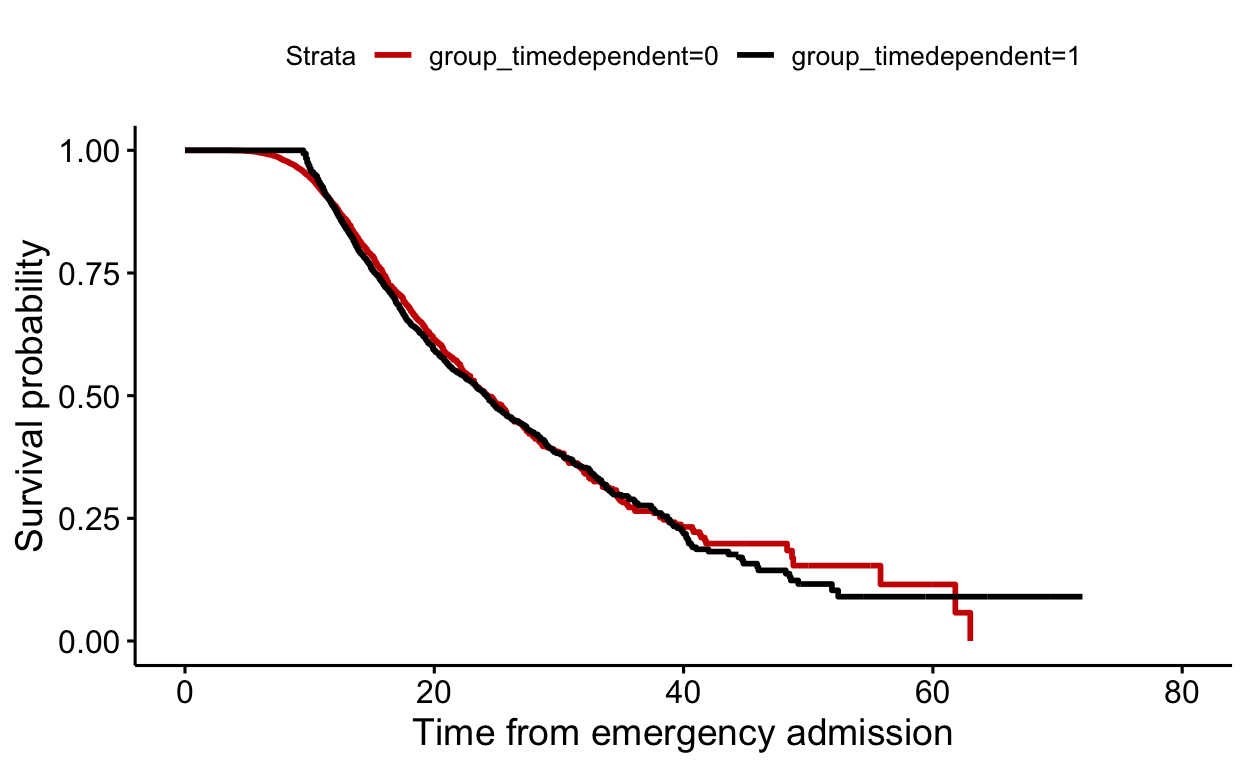
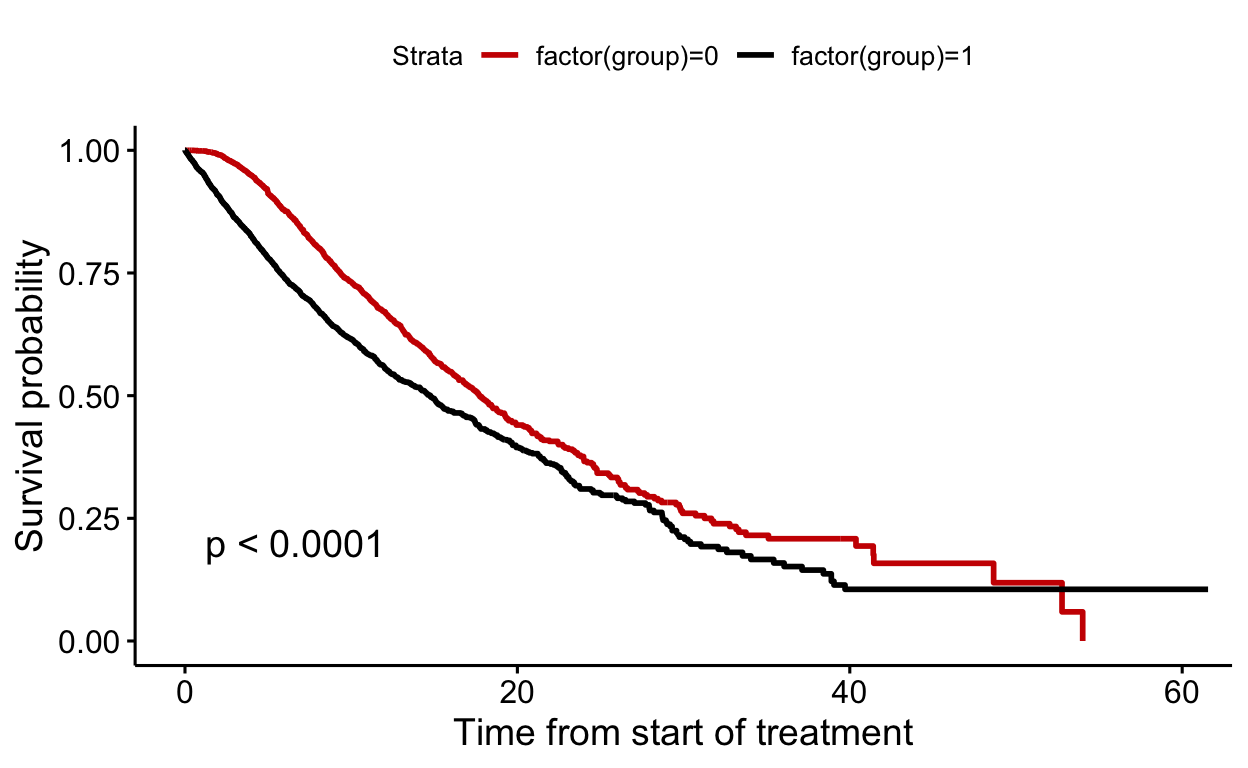
Change

diff --git a/docs/immortal.html b/docs/immortal.html
@@ -2139,13 +2139,7 @@ Topics
 <li><a href="#analysis-strategy">Analysis strategy</a>
 <ul>
 <li><a href="#descriptive-table">Descriptive table</a></li>
-</ul></li>
-<li><a href="#methods-which-introduce-immortal-time-bias">Methods which introduce immortal time bias</a>
-<ul>
 <li><a href="#method-1-fixed-group-assignment-at-time-zero">Method 1: Fixed group assignment at time zero</a></li>
-</ul></li>
-<li><a href="#methods-which-might-account-for-immortal-time-bias">Methods which might account for immortal time bias</a>
-<ul>
 <li><a href="#method-2-randomly-assign-time-zero-for-short-group">Method 2: Randomly assign time zero for short group</a></li>
 <li><a href="#method-3-matched-treatment-duration">Method 3: Matched treatment duration</a></li>
 <li><a href="#method-4-time-zero-at-end-of-treatment">Method 4: Time zero at end of treatment</a></li>
@@ -2203,7 +2197,7 @@ Topics
 <h2 id="knowledge-from-the-crystal-ball">Knowledge from the crystal ball</h2>
 <p>Because we simulated the data, we know that group assignment has no effect on mortality.</p>
 <h1 id="analysis-strategy">Analysis strategy</h1>
-<p><span class="citation" data-cites="zhou"><a href="#ref-zhou" role="doc-biblioref">Zhou et al.</a> (<a href="#ref-zhou" role="doc-biblioref">2005</a>)</span>, <span class="citation" data-cites="karim"><a href="#ref-karim" role="doc-biblioref">Karim et al.</a> (<a href="#ref-karim" role="doc-biblioref">2016</a>)</span>, <span class="citation" data-cites="robins"><a href="#ref-robins" role="doc-biblioref">Hernán and Robins</a> (<a href="#ref-robins" role="doc-biblioref">2016</a>)</span> and <span class="citation" data-cites="hernan"><a href="#ref-hernan" role="doc-biblioref">Hernán et al.</a> (<a href="#ref-hernan" role="doc-biblioref">2016</a>)</span> discuss different analysis strategies for addressing (or not adressing) immortal time bias. IN this vignette we summarise the investigated methods from the above mentioned articles:</p>
+<p><span class="citation" data-cites="zhou"><a href="#ref-zhou" role="doc-biblioref">Zhou et al.</a> (<a href="#ref-zhou" role="doc-biblioref">2005</a>)</span>, <span class="citation" data-cites="karim"><a href="#ref-karim" role="doc-biblioref">Karim et al.</a> (<a href="#ref-karim" role="doc-biblioref">2016</a>)</span>, <span class="citation" data-cites="robins"><a href="#ref-robins" role="doc-biblioref">Hernán and Robins</a> (<a href="#ref-robins" role="doc-biblioref">2016</a>)</span> and <span class="citation" data-cites="hernan"><a href="#ref-hernan" role="doc-biblioref">Hernán et al.</a> (<a href="#ref-hernan" role="doc-biblioref">2016</a>)</span> discuss different analysis strategies for addressing (or not adressing) immortal time bias. In this vignette we summarise the investigated methods from the above mentioned articles:</p>
 <table>
 <thead>
 <tr class="header">
@@ -2704,10 +2698,8 @@ Topics
 <div class="layout-chunk" data-layout="l-body">
 
 </div>
-<h1 id="methods-which-introduce-immortal-time-bias">Methods which introduce immortal time bias</h1>
-<p>This section shows two approaches which do not correct for immortal time bias (<span class="citation" data-cites="zhou"><a href="#ref-zhou" role="doc-biblioref">Zhou et al.</a> (<a href="#ref-zhou" role="doc-biblioref">2005</a>)</span>).</p>
 <h2 id="method-1-fixed-group-assignment-at-time-zero">Method 1: Fixed group assignment at time zero</h2>
-<p>Time zero is time of emergency admission. Treatment is assigned according to whether patients had a short or long time to treatment.</p>
+<p>Time zero was time of emergency admission. Treatment was assigned according to whether patients had a short or long time to treatment. No patients were excluded from the analysis.</p>
 <div class="layout-chunk" data-layout="l-body">
 <div class="sourceCode">
 <pre class="sourceCode r"><code class="sourceCode r"><span class='va'>mod</span> <span class='op'>&lt;-</span> <span class='fu'><a href='https://rdrr.io/pkg/survival/man/survfit.html'>survfit</a></span><span class='op'>(</span><span class='fu'><a href='https://rdrr.io/pkg/survival/man/Surv.html'>Surv</a></span><span class='op'>(</span><span class='va'>fup</span>, <span class='va'>death</span><span class='op'>)</span><span class='op'>~</span><span class='fu'><a href='https://rdrr.io/r/base/factor.html'>factor</a></span><span class='op'>(</span><span class='va'>group</span><span class='op'>)</span>, data<span class='op'>=</span><span class='va'>data</span><span class='op'>)</span>
@@ -2716,9 +2708,8 @@ Topics
 </div>
 <p><img src="immortal_files/figure-html5/unnamed-chunk-6-1.png" width="624" /></p>
 </div>
-<h1 id="methods-which-might-account-for-immortal-time-bias">Methods which might account for immortal time bias</h1>
 <h2 id="method-2-randomly-assign-time-zero-for-short-group">Method 2: Randomly assign time zero for short group</h2>
-<p>Treatment is assigned according to whether patients had a short or long time to treatment. Time zero is set at start of treatment, but time to treatment for the short group is randomly replaced by a time to treatment from the time to treatment range of the long group. Individuals from the short group who die before time zero are excluded.</p>
+<p>Treatment was assigned according to whether patients had a short or long time to treatment. Time zero was set at start of treatment, but time to treatment for the short group was randomly replaced by a time to treatment from the time to treatment range of the long group.</p>
 <div class="layout-chunk" data-layout="l-body">
 <div class="sourceCode">
 <pre class="sourceCode r"><code class="sourceCode r"><span class='va'>data_method2</span> <span class='op'>&lt;-</span> <span class='va'>data</span>
@@ -2727,14 +2718,21 @@ Topics
 <span class='va'>data_method2</span><span class='op'>$</span><span class='va'>time_to_treatment_new</span><span class='op'>[</span><span class='va'>data_method2</span><span class='op'>$</span><span class='va'>group</span><span class='op'>==</span><span class='fl'>0</span><span class='op'>]</span> <span class='op'>&lt;-</span> 
   <span class='fu'><a href='https://rdrr.io/r/stats/Uniform.html'>runif</a></span><span class='op'>(</span><span class='fu'><a href='https://rdrr.io/r/base/length.html'>length</a></span><span class='op'>(</span><span class='va'>data_method2</span><span class='op'>$</span><span class='va'>time_to_treatment_new</span><span class='op'>[</span><span class='va'>data_method2</span><span class='op'>$</span><span class='va'>group</span><span class='op'>==</span><span class='fl'>0</span><span class='op'>]</span><span class='op'>)</span>, <span class='fu'><a href='https://rdrr.io/r/stats/median.html'>median</a></span><span class='op'>(</span><span class='va'>time_to_treatment</span><span class='op'>)</span>, <span class='fu'><a href='https://rdrr.io/r/base/Extremes.html'>max</a></span><span class='op'>(</span><span class='va'>time_to_treatment</span><span class='op'>)</span><span class='op'>)</span>
 
-<span class='co'># Exclusion of patients</span>
+<span class='co'># Exclusion of patients:</span>
+<span class='co'># If original follow-up time of patients &lt; random treatment time</span>
 <span class='va'>data_method2</span><span class='op'>$</span><span class='va'>exclude</span> <span class='op'>&lt;-</span> <span class='fl'>0</span>
 <span class='va'>data_method2</span><span class='op'>$</span><span class='va'>exclude</span><span class='op'>[</span><span class='va'>data_method2</span><span class='op'>$</span><span class='va'>group</span><span class='op'>==</span><span class='fl'>0</span> <span class='op'>&amp;</span> <span class='va'>data_method2</span><span class='op'>$</span><span class='va'>death</span><span class='op'>==</span><span class='fl'>1</span><span class='op'>]</span> <span class='op'>&lt;-</span> 
   <span class='fu'><a href='https://rdrr.io/r/base/ifelse.html'>ifelse</a></span><span class='op'>(</span><span class='va'>data_method2</span><span class='op'>$</span><span class='va'>fup</span><span class='op'>[</span><span class='va'>data_method2</span><span class='op'>$</span><span class='va'>group</span><span class='op'>==</span><span class='fl'>0</span> <span class='op'>&amp;</span> <span class='va'>data_method2</span><span class='op'>$</span><span class='va'>death</span><span class='op'>==</span><span class='fl'>1</span><span class='op'>]</span><span class='op'>&lt;</span><span class='va'>data_method2</span><span class='op'>$</span><span class='va'>time_to_treatment_new</span><span class='op'>[</span><span class='va'>data_method2</span><span class='op'>$</span><span class='va'>group</span><span class='op'>==</span><span class='fl'>0</span> <span class='op'>&amp;</span> <span class='va'>data_method2</span><span class='op'>$</span><span class='va'>death</span><span class='op'>==</span><span class='fl'>1</span><span class='op'>]</span>, <span class='fl'>1</span>, <span class='fl'>0</span><span class='op'>)</span>
-
-<span class='va'>data_method2</span> <span class='op'>&lt;-</span> <span class='va'>data_method2</span> <span class='op'><a href='https://magrittr.tidyverse.org/reference/pipe.html'>%&gt;%</a></span> <span class='fu'><a href='https://dplyr.tidyverse.org/reference/filter.html'>filter</a></span><span class='op'>(</span><span class='va'>exclude</span><span class='op'>==</span><span class='fl'>0</span><span class='op'>)</span>
+</code></pre>
+</div>
+</div>
+<p>829 (8.3) individuals from the short group who died before time zero were excluded.</p>
+<div class="layout-chunk" data-layout="l-body">
+<div class="sourceCode">
+<pre class="sourceCode r"><code class="sourceCode r"><span class='va'>data_method2</span> <span class='op'>&lt;-</span> <span class='va'>data_method2</span> <span class='op'><a href='https://magrittr.tidyverse.org/reference/pipe.html'>%&gt;%</a></span> <span class='fu'><a href='https://dplyr.tidyverse.org/reference/filter.html'>filter</a></span><span class='op'>(</span><span class='va'>exclude</span><span class='op'>==</span><span class='fl'>0</span><span class='op'>)</span>
 
 <span class='co'># Time zero: Start of treatment</span>
+<span class='co'># Difference between new random treatment time - original treatment time (=zero for long group)</span>
 <span class='va'>data_method2</span><span class='op'>$</span><span class='va'>fup</span> <span class='op'>&lt;-</span> <span class='fu'><a href='https://rdrr.io/r/base/Extremes.html'>pmin</a></span><span class='op'>(</span><span class='va'>data_method2</span><span class='op'>$</span><span class='va'>time_to_treatment_new</span><span class='op'>-</span><span class='va'>data_method2</span><span class='op'>$</span><span class='va'>time_to_treatment</span><span class='op'>+</span><span class='va'>data_method2</span><span class='op'>$</span><span class='va'>time_to_death</span>, <span class='va'>data_method2</span><span class='op'>$</span><span class='va'>time_to_treatment_new</span><span class='op'>-</span><span class='va'>data_method2</span><span class='op'>$</span><span class='va'>time_to_treatment</span><span class='op'>+</span><span class='va'>data_method2</span><span class='op'>$</span><span class='va'>censored</span><span class='op'>)</span>
 <span class='co'># Replace death indicator</span>
 <span class='va'>data_method2</span><span class='op'>$</span><span class='va'>death</span> <span class='op'>&lt;-</span> <span class='fu'><a href='https://rdrr.io/r/base/ifelse.html'>ifelse</a></span><span class='op'>(</span><span class='va'>data_method2</span><span class='op'>$</span><span class='va'>time_to_treatment_new</span><span class='op'>-</span><span class='va'>data_method2</span><span class='op'>$</span><span class='va'>time_to_treatment</span><span class='op'>+</span><span class='va'>data_method2</span><span class='op'>$</span><span class='va'>time_to_death</span><span class='op'>&lt;=</span><span class='va'>data_method2</span><span class='op'>$</span><span class='va'>time_to_treatment_new</span><span class='op'>-</span><span class='va'>data_method2</span><span class='op'>$</span><span class='va'>time_to_treatment</span><span class='op'>+</span><span class='va'>data_method2</span><span class='op'>$</span><span class='va'>censored</span>, <span class='fl'>1</span>, <span class='fl'>0</span><span class='op'>)</span>
@@ -2743,55 +2741,67 @@ Topics
 <span class='fu'><a href='https://rdrr.io/pkg/survminer/man/ggsurvplot.html'>ggsurvplot</a></span><span class='op'>(</span><span class='va'>mod</span>, data<span class='op'>=</span><span class='va'>data_method2</span>, palette<span class='op'>=</span><span class='fu'><a href='https://rdrr.io/r/base/c.html'>c</a></span><span class='op'>(</span><span class='st'>"#CC0000"</span>, <span class='st'>"black"</span><span class='op'>)</span>, censor<span class='op'>=</span><span class='cn'>F</span>, pval<span class='op'>=</span><span class='cn'>T</span>, xlab<span class='op'>=</span><span class='st'>"Time from start of treatment"</span><span class='op'>)</span>
 </code></pre>
 </div>
-<p><img src="immortal_files/figure-html5/unnamed-chunk-7-1.png" width="624" /></p>
-</div>
-<h2 id="method-3-matched-treatment-duration">Method 3: Matched treatment duration</h2>
-<p>Treatment is assigned according to whether patients had a short or long time to treatment. Time zero is set at start of treatment, but time to treatment for the short group is randomly replaced by a time to treatment from the time to treatment range of the long group. Individuals from the short group who die before time zero are excluded. This methods corrects for time to treatment imbalances (compared to method 2).</p>
-<div class="layout-chunk" data-layout="l-body">
-<div class="sourceCode">
-<pre class="sourceCode r"><code class="sourceCode r"><span class='va'>data_method4</span> <span class='op'>&lt;-</span> <span class='va'>data</span>
-<span class='co'># Get time to treatment from long group</span>
-<span class='va'>sample_time</span> <span class='op'>&lt;-</span> <span class='va'>data_method4</span><span class='op'>$</span><span class='va'>time_to_treatment</span><span class='op'>[</span><span class='va'>data_method4</span><span class='op'>$</span><span class='va'>group</span><span class='op'>==</span><span class='fl'>1</span><span class='op'>]</span>
-<span class='co'># New time to treament for short group</span>
-<span class='va'>data_method4</span><span class='op'>$</span><span class='va'>time_to_treatment_new</span> <span class='op'>&lt;-</span> <span class='va'>data_method4</span><span class='op'>$</span><span class='va'>time_to_treatment</span>
-<span class='va'>data_method4</span><span class='op'>$</span><span class='va'>time_to_treatment_new</span><span class='op'>[</span><span class='va'>data_method4</span><span class='op'>$</span><span class='va'>group</span><span class='op'>==</span><span class='fl'>0</span><span class='op'>]</span> <span class='op'>&lt;-</span> <span class='fu'><a href='https://rdrr.io/r/base/sample.html'>sample</a></span><span class='op'>(</span><span class='va'>sample_time</span>, <span class='fu'><a href='https://rdrr.io/r/base/length.html'>length</a></span><span class='op'>(</span><span class='va'>data_method4</span><span class='op'>$</span><span class='va'>time_to_treatment</span><span class='op'>[</span><span class='va'>data_method4</span><span class='op'>$</span><span class='va'>group</span><span class='op'>==</span><span class='fl'>0</span><span class='op'>]</span><span class='op'>)</span><span class='op'>)</span>
-
-<span class='co'># Exclusion of patients</span>
-<span class='va'>data_method4</span><span class='op'>$</span><span class='va'>exclude</span> <span class='op'>&lt;-</span> <span class='fl'>0</span>
-<span class='va'>data_method4</span><span class='op'>$</span><span class='va'>exclude</span><span class='op'>[</span><span class='va'>data_method4</span><span class='op'>$</span><span class='va'>group</span><span class='op'>==</span><span class='fl'>0</span> <span class='op'>&amp;</span> <span class='va'>data_method4</span><span class='op'>$</span><span class='va'>death</span><span class='op'>==</span><span class='fl'>1</span><span class='op'>]</span> <span class='op'>&lt;-</span> <span class='fu'><a href='https://rdrr.io/r/base/ifelse.html'>ifelse</a></span><span class='op'>(</span><span class='va'>data_method4</span><span class='op'>$</span><span class='va'>fup</span><span class='op'>[</span><span class='va'>data_method4</span><span class='op'>$</span><span class='va'>group</span><span class='op'>==</span><span class='fl'>0</span> <span class='op'>&amp;</span> <span class='va'>data_method4</span><span class='op'>$</span><span class='va'>death</span><span class='op'>==</span><span class='fl'>1</span><span class='op'>]</span><span class='op'>&lt;</span><span class='va'>data_method4</span><span class='op'>$</span><span class='va'>time_to_treatment_new</span><span class='op'>[</span><span class='va'>data_method4</span><span class='op'>$</span><span class='va'>group</span><span class='op'>==</span><span class='fl'>0</span> <span class='op'>&amp;</span> <span class='va'>data_method4</span><span class='op'>$</span><span class='va'>death</span><span class='op'>==</span><span class='fl'>1</span><span class='op'>]</span>, <span class='fl'>1</span>, <span class='fl'>0</span><span class='op'>)</span>
-
-<span class='va'>data_method4</span> <span class='op'>&lt;-</span> <span class='va'>data_method4</span> <span class='op'><a href='https://magrittr.tidyverse.org/reference/pipe.html'>%&gt;%</a></span> <span class='fu'><a href='https://dplyr.tidyverse.org/reference/filter.html'>filter</a></span><span class='op'>(</span><span class='va'>exclude</span><span class='op'>==</span><span class='fl'>0</span><span class='op'>)</span>
-
-<span class='co'># Time zero: Start of treatment</span>
-<span class='va'>data_method4</span><span class='op'>$</span><span class='va'>fup</span> <span class='op'>&lt;-</span> <span class='fu'><a href='https://rdrr.io/r/base/Extremes.html'>pmin</a></span><span class='op'>(</span><span class='va'>data_method4</span><span class='op'>$</span><span class='va'>time_to_treatment_new</span><span class='op'>-</span><span class='va'>data_method4</span><span class='op'>$</span><span class='va'>time_to_treatment</span><span class='op'>+</span><span class='va'>data_method4</span><span class='op'>$</span><span class='va'>time_to_death</span>, <span class='va'>data_method4</span><span class='op'>$</span><span class='va'>time_to_treatment_new</span><span class='op'>-</span><span class='va'>data_method4</span><span class='op'>$</span><span class='va'>time_to_treatment</span><span class='op'>+</span><span class='va'>data_method4</span><span class='op'>$</span><span class='va'>censored</span><span class='op'>)</span>
-<span class='va'>data_method4</span><span class='op'>$</span><span class='va'>fup</span> <span class='op'>&lt;-</span> <span class='fu'><a href='https://rdrr.io/r/base/Extremes.html'>pmin</a></span><span class='op'>(</span><span class='va'>data_method4</span><span class='op'>$</span><span class='va'>time_to_death</span>, <span class='va'>data_method4</span><span class='op'>$</span><span class='va'>censored</span><span class='op'>)</span>
-<span class='co'># Replace death indicator</span>
-<span class='va'>data_method4</span><span class='op'>$</span><span class='va'>death</span> <span class='op'>&lt;-</span> <span class='fu'><a href='https://rdrr.io/r/base/ifelse.html'>ifelse</a></span><span class='op'>(</span><span class='va'>data_method4</span><span class='op'>$</span><span class='va'>time_to_treatment_new</span><span class='op'>-</span><span class='va'>data_method4</span><span class='op'>$</span><span class='va'>time_to_treatment</span><span class='op'>+</span><span class='va'>data_method4</span><span class='op'>$</span><span class='va'>time_to_death</span><span class='op'>&lt;=</span><span class='va'>data_method4</span><span class='op'>$</span><span class='va'>time_to_treatment_new</span><span class='op'>-</span><span class='va'>data_method4</span><span class='op'>$</span><span class='va'>time_to_treatment</span><span class='op'>+</span><span class='va'>data_method4</span><span class='op'>$</span><span class='va'>censored</span>, <span class='fl'>1</span>, <span class='fl'>0</span><span class='op'>)</span>
-
-<span class='va'>mod</span> <span class='op'>&lt;-</span> <span class='fu'><a href='https://rdrr.io/pkg/survival/man/survfit.html'>survfit</a></span><span class='op'>(</span><span class='fu'><a href='https://rdrr.io/pkg/survival/man/Surv.html'>Surv</a></span><span class='op'>(</span><span class='va'>fup</span>, <span class='va'>death</span><span class='op'>)</span><span class='op'>~</span><span class='fu'><a href='https://rdrr.io/r/base/factor.html'>factor</a></span><span class='op'>(</span><span class='va'>group</span><span class='op'>)</span>, data<span class='op'>=</span><span class='va'>data_method4</span><span class='op'>)</span>
-<span class='fu'><a href='https://rdrr.io/pkg/survminer/man/ggsurvplot.html'>ggsurvplot</a></span><span class='op'>(</span><span class='va'>mod</span>, data<span class='op'>=</span><span class='va'>data_method4</span>, palette<span class='op'>=</span><span class='fu'><a href='https://rdrr.io/r/base/c.html'>c</a></span><span class='op'>(</span><span class='st'>"#CC0000"</span>, <span class='st'>"black"</span><span class='op'>)</span>, censor<span class='op'>=</span><span class='cn'>F</span>, pval<span class='op'>=</span><span class='cn'>T</span>, xlab<span class='op'>=</span><span class='st'>"Time from start of treatment"</span><span class='op'>)</span>
-</code></pre>
-</div>
 <p><img src="immortal_files/figure-html5/unnamed-chunk-8-1.png" width="624" /></p>
 </div>
-<h2 id="method-4-time-zero-at-end-of-treatment">Method 4: Time zero at end of treatment</h2>
-<p>Treatment is assigned according to whether patients had a short or long time to treatment. Individuals are followed-up from the end of treatment duration.</p>
+<h2 id="method-3-matched-treatment-duration">Method 3: Matched treatment duration</h2>
+<p>Treatment was assigned according to whether patients had a short or long time to treatment. Time zero was set at start of treatment, but time to treatment for the short group was randomly replaced by a time to treatment from the time to treatment range of the long group. This methods corrects for time to treatment imbalances between the two groups (in contrast to method 2).</p>
 <div class="layout-chunk" data-layout="l-body">
 <div class="sourceCode">
 <pre class="sourceCode r"><code class="sourceCode r"><span class='va'>data_method3</span> <span class='op'>&lt;-</span> <span class='va'>data</span>
-<span class='va'>data_method3</span><span class='op'>$</span><span class='va'>excluded</span> <span class='op'>&lt;-</span> <span class='fu'><a href='https://rdrr.io/r/base/ifelse.html'>ifelse</a></span><span class='op'>(</span><span class='va'>data_method3</span><span class='op'>$</span><span class='va'>fup</span><span class='op'>&lt;</span><span class='fu'><a href='https://rdrr.io/r/base/Extremes.html'>max</a></span><span class='op'>(</span><span class='va'>time_to_treatment</span><span class='op'>)</span>, <span class='fl'>1</span>, <span class='fl'>0</span><span class='op'>)</span>
-<span class='va'>data_method3</span> <span class='op'>&lt;-</span> <span class='va'>data_method3</span> <span class='op'><a href='https://magrittr.tidyverse.org/reference/pipe.html'>%&gt;%</a></span> <span class='fu'><a href='https://dplyr.tidyverse.org/reference/filter.html'>filter</a></span><span class='op'>(</span><span class='va'>excluded</span><span class='op'>==</span><span class='fl'>0</span><span class='op'>)</span>
+<span class='co'># Get time to treatment from long group</span>
+<span class='va'>sample_time</span> <span class='op'>&lt;-</span> <span class='va'>data_method3</span><span class='op'>$</span><span class='va'>time_to_treatment</span><span class='op'>[</span><span class='va'>data_method3</span><span class='op'>$</span><span class='va'>group</span><span class='op'>==</span><span class='fl'>1</span><span class='op'>]</span>
+<span class='co'># New time to treatment for short group: Matching from long group</span>
+<span class='va'>data_method3</span><span class='op'>$</span><span class='va'>time_to_treatment_new</span> <span class='op'>&lt;-</span> <span class='va'>data_method3</span><span class='op'>$</span><span class='va'>time_to_treatment</span>
+<span class='va'>data_method3</span><span class='op'>$</span><span class='va'>time_to_treatment_new</span><span class='op'>[</span><span class='va'>data_method3</span><span class='op'>$</span><span class='va'>group</span><span class='op'>==</span><span class='fl'>0</span><span class='op'>]</span> <span class='op'>&lt;-</span> <span class='fu'><a href='https://rdrr.io/r/base/sample.html'>sample</a></span><span class='op'>(</span><span class='va'>sample_time</span>, <span class='fu'><a href='https://rdrr.io/r/base/length.html'>length</a></span><span class='op'>(</span><span class='va'>data_method3</span><span class='op'>$</span><span class='va'>time_to_treatment</span><span class='op'>[</span><span class='va'>data_method3</span><span class='op'>$</span><span class='va'>group</span><span class='op'>==</span><span class='fl'>0</span><span class='op'>]</span><span class='op'>)</span><span class='op'>)</span>
 
-<span class='va'>data_method3</span><span class='op'>$</span><span class='va'>fup</span> <span class='op'>&lt;-</span> <span class='va'>data_method3</span><span class='op'>$</span><span class='va'>fup</span><span class='op'>-</span><span class='fu'><a href='https://rdrr.io/r/base/Extremes.html'>max</a></span><span class='op'>(</span><span class='va'>time_to_treatment</span><span class='op'>)</span>
-
-<span class='va'>mod</span> <span class='op'>&lt;-</span> <span class='fu'><a href='https://rdrr.io/pkg/survival/man/survfit.html'>survfit</a></span><span class='op'>(</span><span class='fu'><a href='https://rdrr.io/pkg/survival/man/Surv.html'>Surv</a></span><span class='op'>(</span><span class='va'>fup</span>, <span class='va'>death</span><span class='op'>)</span><span class='op'>~</span><span class='fu'><a href='https://rdrr.io/r/base/factor.html'>factor</a></span><span class='op'>(</span><span class='va'>group</span><span class='op'>)</span>, data<span class='op'>=</span><span class='va'>data_method3</span><span class='op'>)</span>
-<span class='fu'><a href='https://rdrr.io/pkg/survminer/man/ggsurvplot.html'>ggsurvplot</a></span><span class='op'>(</span><span class='va'>mod</span>, data<span class='op'>=</span><span class='va'>data_method3</span>, palette<span class='op'>=</span><span class='fu'><a href='https://rdrr.io/r/base/c.html'>c</a></span><span class='op'>(</span><span class='st'>"#CC0000"</span>, <span class='st'>"black"</span><span class='op'>)</span>, censor<span class='op'>=</span><span class='cn'>F</span>, pval<span class='op'>=</span><span class='cn'>T</span>, xlab<span class='op'>=</span><span class='st'>"Time from end of treatment duration"</span><span class='op'>)</span>
+<span class='co'># Exclusion of patients</span>
+<span class='va'>data_method3</span><span class='op'>$</span><span class='va'>exclude</span> <span class='op'>&lt;-</span> <span class='fl'>0</span>
+<span class='va'>data_method3</span><span class='op'>$</span><span class='va'>exclude</span><span class='op'>[</span><span class='va'>data_method3</span><span class='op'>$</span><span class='va'>group</span><span class='op'>==</span><span class='fl'>0</span> <span class='op'>&amp;</span> <span class='va'>data_method3</span><span class='op'>$</span><span class='va'>death</span><span class='op'>==</span><span class='fl'>1</span><span class='op'>]</span> <span class='op'>&lt;-</span> <span class='fu'><a href='https://rdrr.io/r/base/ifelse.html'>ifelse</a></span><span class='op'>(</span><span class='va'>data_method3</span><span class='op'>$</span><span class='va'>fup</span><span class='op'>[</span><span class='va'>data_method3</span><span class='op'>$</span><span class='va'>group</span><span class='op'>==</span><span class='fl'>0</span> <span class='op'>&amp;</span> <span class='va'>data_method3</span><span class='op'>$</span><span class='va'>death</span><span class='op'>==</span><span class='fl'>1</span><span class='op'>]</span><span class='op'>&lt;</span><span class='va'>data_method3</span><span class='op'>$</span><span class='va'>time_to_treatment_new</span><span class='op'>[</span><span class='va'>data_method3</span><span class='op'>$</span><span class='va'>group</span><span class='op'>==</span><span class='fl'>0</span> <span class='op'>&amp;</span> <span class='va'>data_method3</span><span class='op'>$</span><span class='va'>death</span><span class='op'>==</span><span class='fl'>1</span><span class='op'>]</span>, <span class='fl'>1</span>, <span class='fl'>0</span><span class='op'>)</span>
 </code></pre>
 </div>
-<p><img src="immortal_files/figure-html5/unnamed-chunk-9-1.png" width="624" /></p>
+</div>
+<p>634 (6.3) individuals from the short group who die before time zero were excluded.</p>
+<div class="layout-chunk" data-layout="l-body">
+<div class="sourceCode">
+<pre class="sourceCode r"><code class="sourceCode r"><span class='va'>data_method3</span> <span class='op'>&lt;-</span> <span class='va'>data_method3</span> <span class='op'><a href='https://magrittr.tidyverse.org/reference/pipe.html'>%&gt;%</a></span> <span class='fu'><a href='https://dplyr.tidyverse.org/reference/filter.html'>filter</a></span><span class='op'>(</span><span class='va'>exclude</span><span class='op'>==</span><span class='fl'>0</span><span class='op'>)</span>
+
+<span class='co'># Time zero: Start of treatment</span>
+<span class='co'># Difference between new matched treatment time - original treatment time (=zero for long group)</span>
+<span class='va'>data_method3</span><span class='op'>$</span><span class='va'>fup</span> <span class='op'>&lt;-</span> <span class='fu'><a href='https://rdrr.io/r/base/Extremes.html'>pmin</a></span><span class='op'>(</span><span class='va'>data_method3</span><span class='op'>$</span><span class='va'>time_to_treatment_new</span><span class='op'>-</span><span class='va'>data_method3</span><span class='op'>$</span><span class='va'>time_to_treatment</span><span class='op'>+</span><span class='va'>data_method3</span><span class='op'>$</span><span class='va'>time_to_death</span>, <span class='va'>data_method3</span><span class='op'>$</span><span class='va'>time_to_treatment_new</span><span class='op'>-</span><span class='va'>data_method3</span><span class='op'>$</span><span class='va'>time_to_treatment</span><span class='op'>+</span><span class='va'>data_method3</span><span class='op'>$</span><span class='va'>censored</span><span class='op'>)</span>
+<span class='va'>data_method3</span><span class='op'>$</span><span class='va'>fup</span> <span class='op'>&lt;-</span> <span class='fu'><a href='https://rdrr.io/r/base/Extremes.html'>pmin</a></span><span class='op'>(</span><span class='va'>data_method3</span><span class='op'>$</span><span class='va'>time_to_death</span>, <span class='va'>data_method3</span><span class='op'>$</span><span class='va'>censored</span><span class='op'>)</span>
+<span class='co'># Replace death indicator</span>
+<span class='va'>data_method3</span><span class='op'>$</span><span class='va'>death</span> <span class='op'>&lt;-</span> <span class='fu'><a href='https://rdrr.io/r/base/ifelse.html'>ifelse</a></span><span class='op'>(</span><span class='va'>data_method3</span><span class='op'>$</span><span class='va'>time_to_treatment_new</span><span class='op'>-</span><span class='va'>data_method3</span><span class='op'>$</span><span class='va'>time_to_treatment</span><span class='op'>+</span><span class='va'>data_method3</span><span class='op'>$</span><span class='va'>time_to_death</span><span class='op'>&lt;=</span><span class='va'>data_method3</span><span class='op'>$</span><span class='va'>time_to_treatment_new</span><span class='op'>-</span><span class='va'>data_method3</span><span class='op'>$</span><span class='va'>time_to_treatment</span><span class='op'>+</span><span class='va'>data_method3</span><span class='op'>$</span><span class='va'>censored</span>, <span class='fl'>1</span>, <span class='fl'>0</span><span class='op'>)</span>
+
+<span class='va'>mod</span> <span class='op'>&lt;-</span> <span class='fu'><a href='https://rdrr.io/pkg/survival/man/survfit.html'>survfit</a></span><span class='op'>(</span><span class='fu'><a href='https://rdrr.io/pkg/survival/man/Surv.html'>Surv</a></span><span class='op'>(</span><span class='va'>fup</span>, <span class='va'>death</span><span class='op'>)</span><span class='op'>~</span><span class='fu'><a href='https://rdrr.io/r/base/factor.html'>factor</a></span><span class='op'>(</span><span class='va'>group</span><span class='op'>)</span>, data<span class='op'>=</span><span class='va'>data_method3</span><span class='op'>)</span>
+<span class='fu'><a href='https://rdrr.io/pkg/survminer/man/ggsurvplot.html'>ggsurvplot</a></span><span class='op'>(</span><span class='va'>mod</span>, data<span class='op'>=</span><span class='va'>data_method3</span>, palette<span class='op'>=</span><span class='fu'><a href='https://rdrr.io/r/base/c.html'>c</a></span><span class='op'>(</span><span class='st'>"#CC0000"</span>, <span class='st'>"black"</span><span class='op'>)</span>, censor<span class='op'>=</span><span class='cn'>F</span>, pval<span class='op'>=</span><span class='cn'>T</span>, xlab<span class='op'>=</span><span class='st'>"Time from start of treatment"</span><span class='op'>)</span>
+</code></pre>
+</div>
+<p><img src="immortal_files/figure-html5/unnamed-chunk-10-1.png" width="624" /></p>
+</div>
+<h2 id="method-4-time-zero-at-end-of-treatment">Method 4: Time zero at end of treatment</h2>
+<p>Treatment was assigned according to whether patients had a short or long time to treatment. Individuals were followed-up from the end of treatment duration.</p>
+<div class="layout-chunk" data-layout="l-body">
+<div class="sourceCode">
+<pre class="sourceCode r"><code class="sourceCode r"><span class='va'>data_method4</span> <span class='op'>&lt;-</span> <span class='va'>data</span>
+<span class='va'>data_method4</span><span class='op'>$</span><span class='va'>exclude</span> <span class='op'>&lt;-</span> <span class='fu'><a href='https://rdrr.io/r/base/ifelse.html'>ifelse</a></span><span class='op'>(</span><span class='va'>data_method4</span><span class='op'>$</span><span class='va'>fup</span><span class='op'>&lt;</span><span class='fu'><a href='https://rdrr.io/r/base/Extremes.html'>max</a></span><span class='op'>(</span><span class='va'>time_to_treatment</span><span class='op'>)</span>, <span class='fl'>1</span>, <span class='fl'>0</span><span class='op'>)</span>
+</code></pre>
+</div>
+</div>
+<p>5922 (59.2) individuals from both groups who died before time zero were excluded.</p>
+<div class="layout-chunk" data-layout="l-body">
+<div class="sourceCode">
+<pre class="sourceCode r"><code class="sourceCode r"><span class='va'>data_method4</span> <span class='op'>&lt;-</span> <span class='va'>data_method4</span> <span class='op'><a href='https://magrittr.tidyverse.org/reference/pipe.html'>%&gt;%</a></span> <span class='fu'><a href='https://dplyr.tidyverse.org/reference/filter.html'>filter</a></span><span class='op'>(</span><span class='va'>exclude</span><span class='op'>==</span><span class='fl'>0</span><span class='op'>)</span>
+<span class='co'># Shift time to follow-up</span>
+<span class='va'>data_method4</span><span class='op'>$</span><span class='va'>fup</span> <span class='op'>&lt;-</span> <span class='va'>data_method4</span><span class='op'>$</span><span class='va'>fup</span><span class='op'>-</span><span class='fu'><a href='https://rdrr.io/r/base/Extremes.html'>max</a></span><span class='op'>(</span><span class='va'>time_to_treatment</span><span class='op'>)</span>
+
+<span class='va'>mod</span> <span class='op'>&lt;-</span> <span class='fu'><a href='https://rdrr.io/pkg/survival/man/survfit.html'>survfit</a></span><span class='op'>(</span><span class='fu'><a href='https://rdrr.io/pkg/survival/man/Surv.html'>Surv</a></span><span class='op'>(</span><span class='va'>fup</span>, <span class='va'>death</span><span class='op'>)</span><span class='op'>~</span><span class='fu'><a href='https://rdrr.io/r/base/factor.html'>factor</a></span><span class='op'>(</span><span class='va'>group</span><span class='op'>)</span>, data<span class='op'>=</span><span class='va'>data_method4</span><span class='op'>)</span>
+<span class='fu'><a href='https://rdrr.io/pkg/survminer/man/ggsurvplot.html'>ggsurvplot</a></span><span class='op'>(</span><span class='va'>mod</span>, data<span class='op'>=</span><span class='va'>data_method4</span>, palette<span class='op'>=</span><span class='fu'><a href='https://rdrr.io/r/base/c.html'>c</a></span><span class='op'>(</span><span class='st'>"#CC0000"</span>, <span class='st'>"black"</span><span class='op'>)</span>, censor<span class='op'>=</span><span class='cn'>F</span>, pval<span class='op'>=</span><span class='cn'>T</span>, xlab<span class='op'>=</span><span class='st'>"Time from end of treatment duration"</span><span class='op'>)</span>
+</code></pre>
+</div>
+<p><img src="immortal_files/figure-html5/unnamed-chunk-12-1.png" width="624" /></p>
 </div>
 <h2 id="method-5-time-dependent-treatment">Method 5: Time-dependent treatment</h2>
-<p>Treatment assignment is 0 (“short”) as long as a patient has a time to treatment smaller than the median time to treatment, and 1 (“long”) otherwise.</p>
+<p>Treatment assignment was 0 (“short”) as long as a patient had a time to treatment smaller than the median time to treatment, and 1 (“long”) otherwise. No individuals were excluded.</p>
 <div class="layout-chunk" data-layout="l-body">
 <div class="sourceCode">
 <pre class="sourceCode r"><code class="sourceCode r"><span class='kw'><a href='https://rdrr.io/r/base/library.html'>library</a></span><span class='op'>(</span><span class='va'><a href='http://github.com/mrdwab/splitstackshape'>splitstackshape</a></span><span class='op'>)</span>
@@ -2820,15 +2830,38 @@ Topics
 <span class='fu'><a href='https://rdrr.io/pkg/survminer/man/ggsurvplot.html'>ggsurvplot</a></span><span class='op'>(</span><span class='va'>mod_km</span>, data<span class='op'>=</span><span class='va'>data_discrete_surv</span>, palette<span class='op'>=</span><span class='fu'><a href='https://rdrr.io/r/base/c.html'>c</a></span><span class='op'>(</span><span class='st'>"#CC0000"</span>, <span class='st'>"black"</span><span class='op'>)</span>, censor<span class='op'>=</span><span class='cn'>F</span>, pval<span class='op'>=</span><span class='cn'>F</span>, xlab<span class='op'>=</span><span class='st'>"Time from emergency admission"</span><span class='op'>)</span>
 </code></pre>
 </div>
-<p><img src="immortal_files/figure-html5/unnamed-chunk-10-1.png" width="624" /></p>
+<p><img src="immortal_files/figure-html5/unnamed-chunk-13-1.png" width="624" /></p>
 </div>
 <h2 id="method-6-cloning">Method 6: Cloning</h2>
+<p>Each patient was cloned and received the not observed exposure or treatment. This lead to two pseudopopulations, each with a size of 10,000 patients. Patients in one pseudopopulation (those having a short time to treatment duration) were censored if the time to treatment is longer than the median time to treatment. Patients in the pseudopopulation a long time to treatment duration are censored if patients were alive and had a time to treatment shorter than the median time to treatment. Censoring indicates protocol deviations here. No patients are excluded from the analysis.</p>
 <div class="layout-chunk" data-layout="l-body">
+<pre><code>Independent Sampling design (with replacement)
+svydesign(id = ~1, weights = ~ipw, data = data_clone)</code></pre>
+<pre><code>Call:
+svycoxph(formula = Surv(fup, death) ~ group, design = svy_design)
 
+  n= 20000, number of events= 4893 
+
+          coef exp(coef) se(coef) robust se      z Pr(&gt;|z|)  
+group -0.08321   0.92016  0.02877   0.03379 -2.462   0.0138 *
+---
+Signif. codes:  0 &#39;***&#39; 0.001 &#39;**&#39; 0.01 &#39;*&#39; 0.05 &#39;.&#39; 0.1 &#39; &#39; 1
+
+      exp(coef) exp(-coef) lower .95 upper .95
+group    0.9202      1.087    0.8612    0.9832
+
+Concordance= 0.512  (se = 0.005 )
+Likelihood ratio test= NA  on 1 df,   p=NA
+Wald test            = 6.06  on 1 df,   p=0.01
+Score (logrank) test = NA  on 1 df,   p=NA
+
+  (Note: the likelihood ratio and score tests assume independence of
+     observations within a cluster, the Wald and robust score tests do not).</code></pre>
+<p><img src="immortal_files/figure-html5/unnamed-chunk-14-1.png" width="624" /></p>
 </div>
 <h1 id="conclusion">Conclusion</h1>
-<p>Immortal time bias is common in time to event analysis of observational data. In the present vignette we presented several methods for addressing immortal time bias. Similar to <span class="citation" data-cites="zhou"><a href="#ref-zhou" role="doc-biblioref">Zhou et al.</a> (<a href="#ref-zhou" role="doc-biblioref">2005</a>)</span> we conclude that the investigated methods 1 and 2 do not adequately address immortal time bias. In contrast to <span class="citation" data-cites="zhou"><a href="#ref-zhou" role="doc-biblioref">Zhou et al.</a> (<a href="#ref-zhou" role="doc-biblioref">2005</a>)</span> we found that method 3 did not adequatly address immortal time bias, which was also highlighted in <span class="citation" data-cites="karim"><a href="#ref-karim" role="doc-biblioref">Karim et al.</a> (<a href="#ref-karim" role="doc-biblioref">2016</a>)</span>.</p>
-<div class="sourceCode" id="cb1"><pre class="sourceCode r distill-force-highlighting-css"><code class="sourceCode r"></code></pre></div>
+<p>Immortal time bias is common in time to event analysis of observational data. In the present vignette we presented several methods for addressing immortal time bias. Similar to <span class="citation" data-cites="zhou"><a href="#ref-zhou" role="doc-biblioref">Zhou et al.</a> (<a href="#ref-zhou" role="doc-biblioref">2005</a>)</span> we conclude that the investigated methods 1 and 2 did not adequately address immortal time bias. In contrast to <span class="citation" data-cites="zhou"><a href="#ref-zhou" role="doc-biblioref">Zhou et al.</a> (<a href="#ref-zhou" role="doc-biblioref">2005</a>)</span> we found that method 3 did not adequately address immortal time bias too, which was also highlighted in <span class="citation" data-cites="karim"><a href="#ref-karim" role="doc-biblioref">Karim et al.</a> (<a href="#ref-karim" role="doc-biblioref">2016</a>)</span>. Methods 4 to 5 were able to address immortal time bias. We recommend to compare some of the suggested methods in a real world analysis in sensitivity analyses and to be aware of their limitations (for example, exclusion of patients which leads to selection bias).</p>
+<div class="sourceCode" id="cb3"><pre class="sourceCode r distill-force-highlighting-css"><code class="sourceCode r"></code></pre></div>
 <div id="refs" class="references csl-bib-body hanging-indent" role="doc-bibliography">
 <div id="ref-robins" class="csl-entry" role="doc-biblioentry">
 Hernán, Miguel A., and James M. Robins. 2016. <span>“<span class="nocase">Using Big Data to Emulate a Target Trial When a Randomized Trial Is Not Available</span>.”</span> <em>American Journal of Epidemiology</em> 183 (8): 758–64. <a href="https://doi.org/10.1093/aje/kwv254">https://doi.org/10.1093/aje/kwv254</a>.
